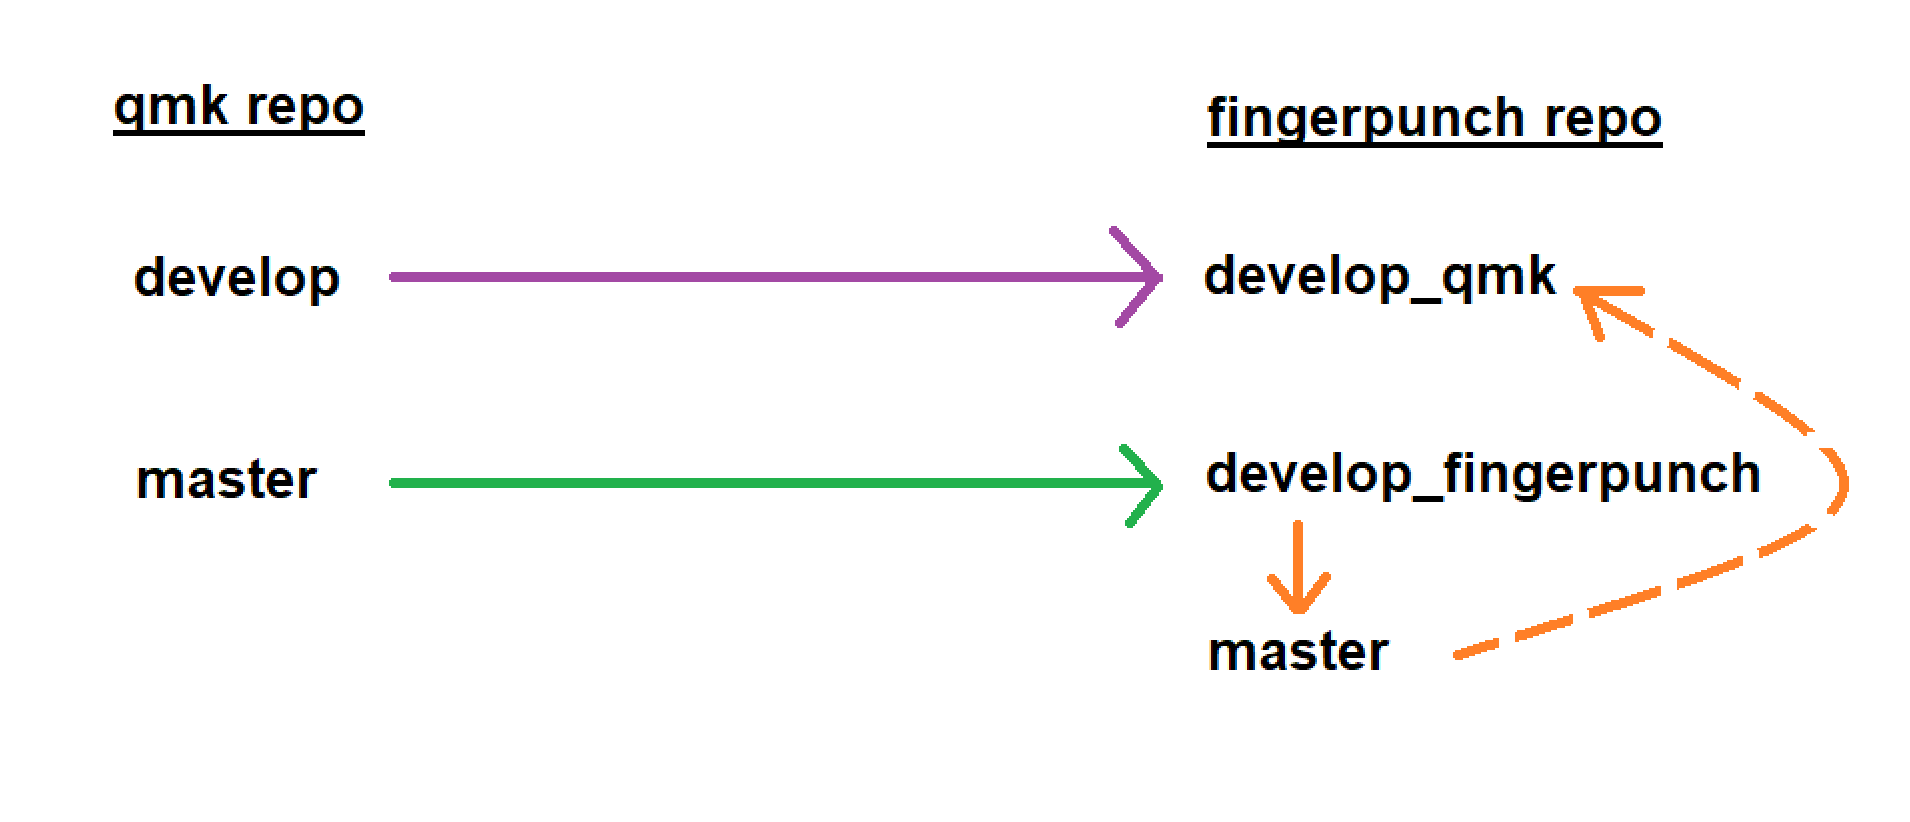
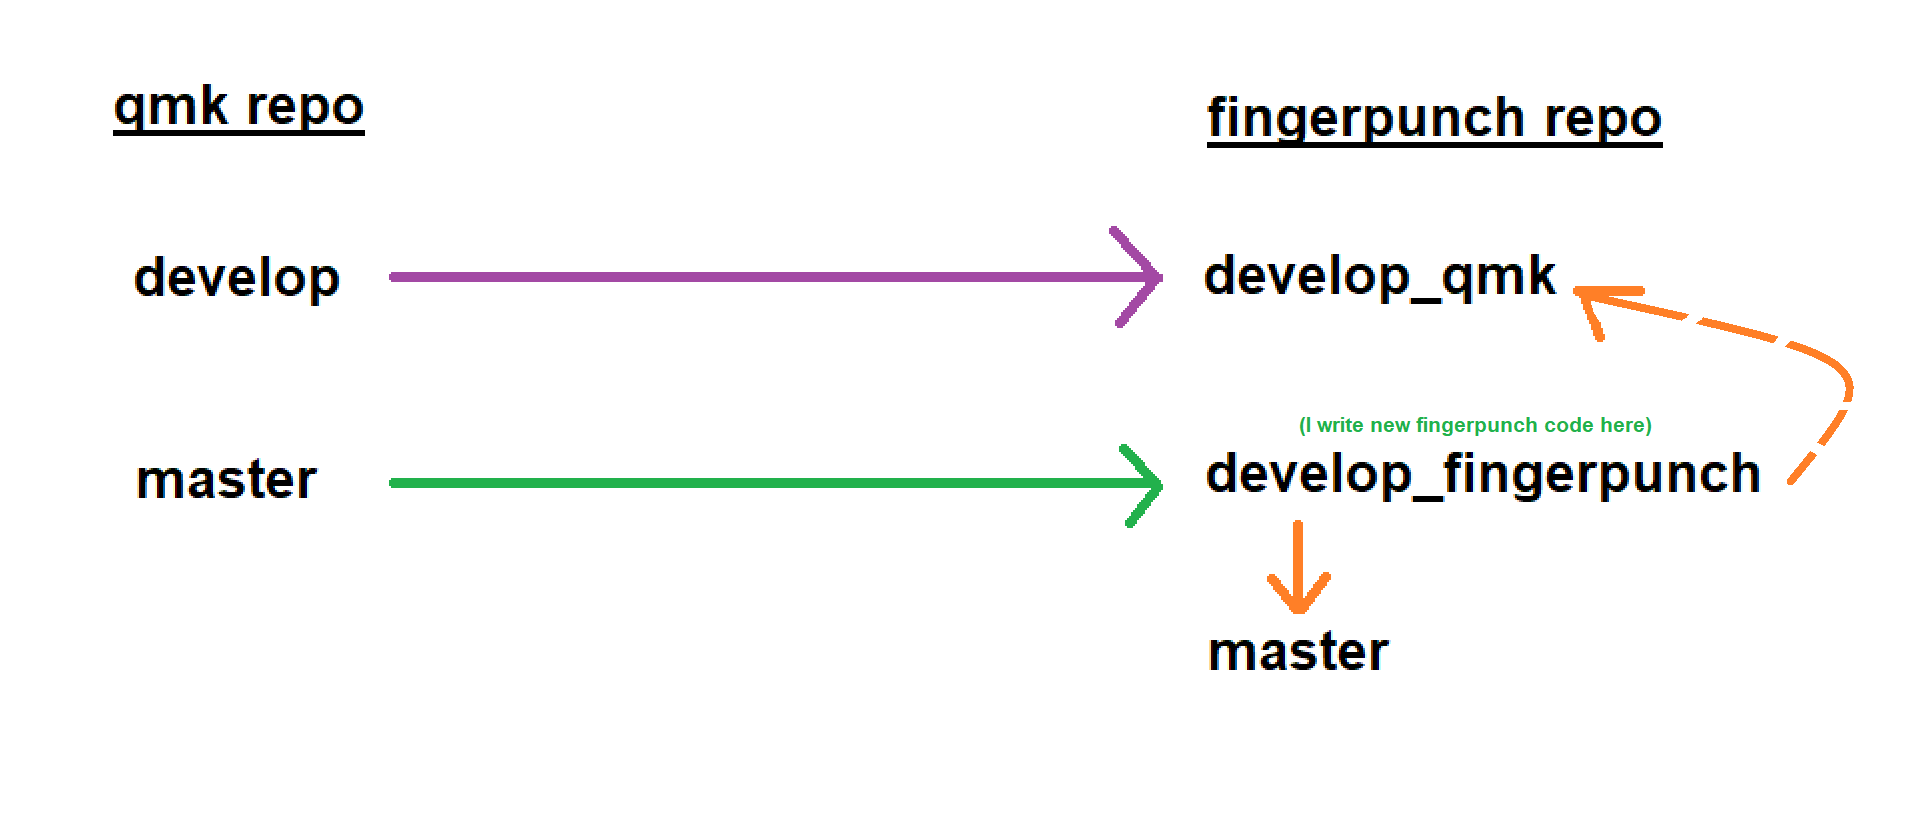
updated branch management

diff --git a/firmware/README.md b/firmware/README.md
@@ -6,7 +6,7 @@ fingerpunch repo: https://github.com/sadekbaroudi/qmk_firmware
 Branches
 * master - stable, synced with qmk master, but adds the fingerpunch keyboards ( keyboards/fingerpunch/ directory )
 * develop_fingerpunch - relatively stable, synced with qmk master, but contains new fingerpunch specific changes only, no changes to qmk itself...
-* develop_qmk - synced with qmk develop, contains all the latest qmk changes only, along with the fingerpunch folder ( keyboards/fingerpunch/ directory )
+* develop_qmk - bleeding edge! synced with the qmk repository's develop branch and fingerpunch's develop_fingerpunch branch. Note that I do not update this regularly. But if you want to try a new qmk feature that isn't in master, request that I sync them, and I will gladly do so.
 
 ![branch management](images/fingerpunch-repo-branch-management.png)
 
